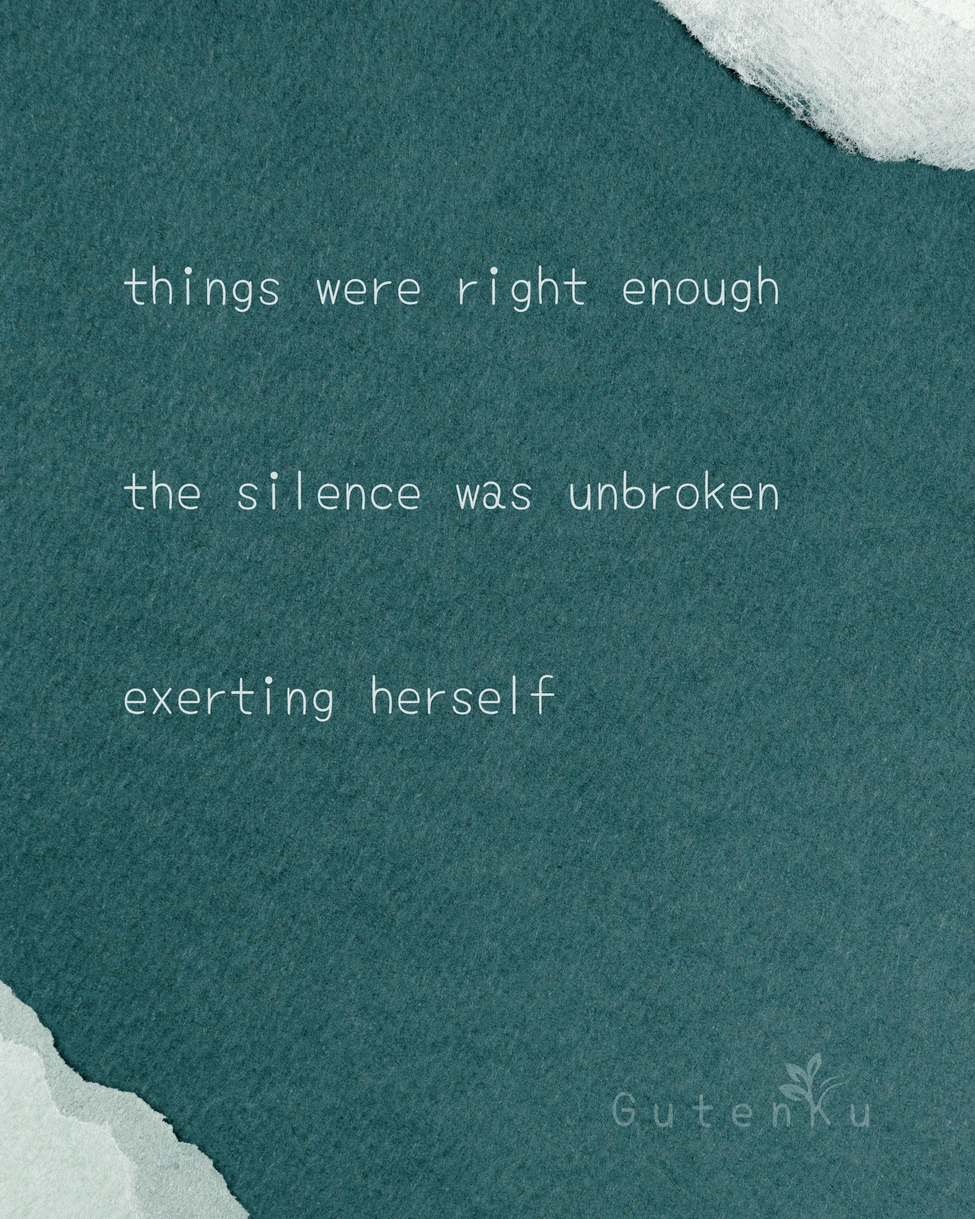
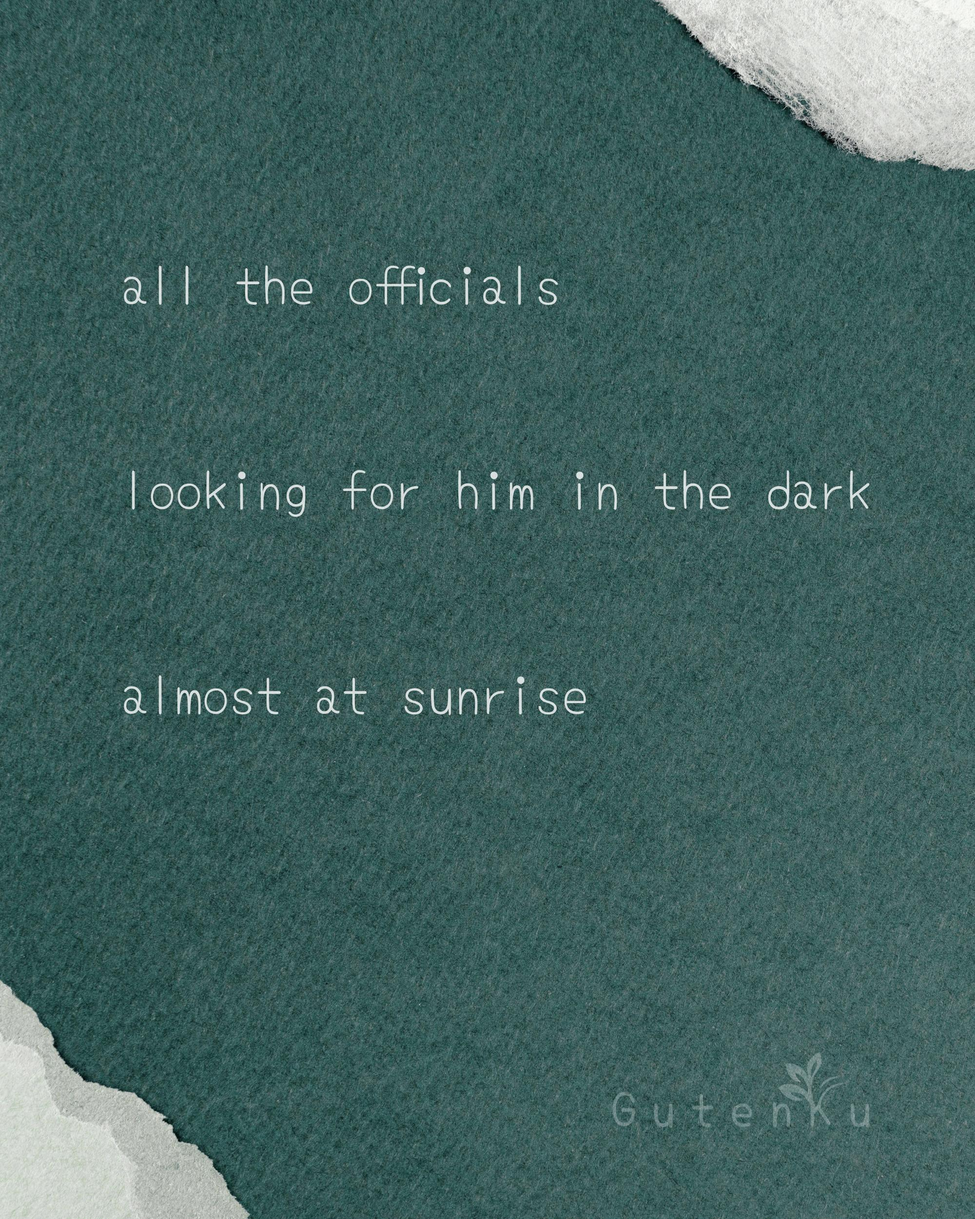
docs(readme): updated daily haiku card

diff --git a/README.md b/README.md
@@ -25,13 +25,13 @@
 <table>
 <tr>
 <td width="300" valign="top">
-<img src="/assets/img/daily_haiku_card.jpg?t=1788084039" width="280" alt="Daily Haiku Card">
+<img src="/assets/img/daily_haiku_card.jpg?t=1788170441" width="280" alt="Daily Haiku Card">
 </td>
 <td valign="top">
 
-> _"This haiku suggests a quiet, outwardly orderly moment that hides inner effort. The phrase "things were right enough" implies a sense of acceptable calm or stability, but not perfect happiness. "The silence was unbroken" creates an atmosphere of stillness, restraint, and perhaps emotional distance. The final line, "exerting herself," introduces tension: beneath the calm surface, someone is working hard, struggling, or forcing themselves to continue. The poem’s power lies in this contrast between external quiet and internal effort, leaving the reader to sense hidden pressure or endurance."_
+> _"This haiku creates a quiet but tense scene of pursuit. The "officials" suggest authority, order, or perhaps a group searching for someone important, while the darkness adds mystery and uncertainty. As the poem moves toward "almost at sunrise," the approaching light hints at revelation, hope, or the end of the search. The contrast between darkness and sunrise gives the haiku a feeling of suspense, as if something hidden is about to be discovered just as night gives way to day."_
 
-— **BotenKu** 📅 _Aug 30, 2026_
+— **BotenKu** 📅 _Aug 31, 2026_
 
 </td>
 </tr>
